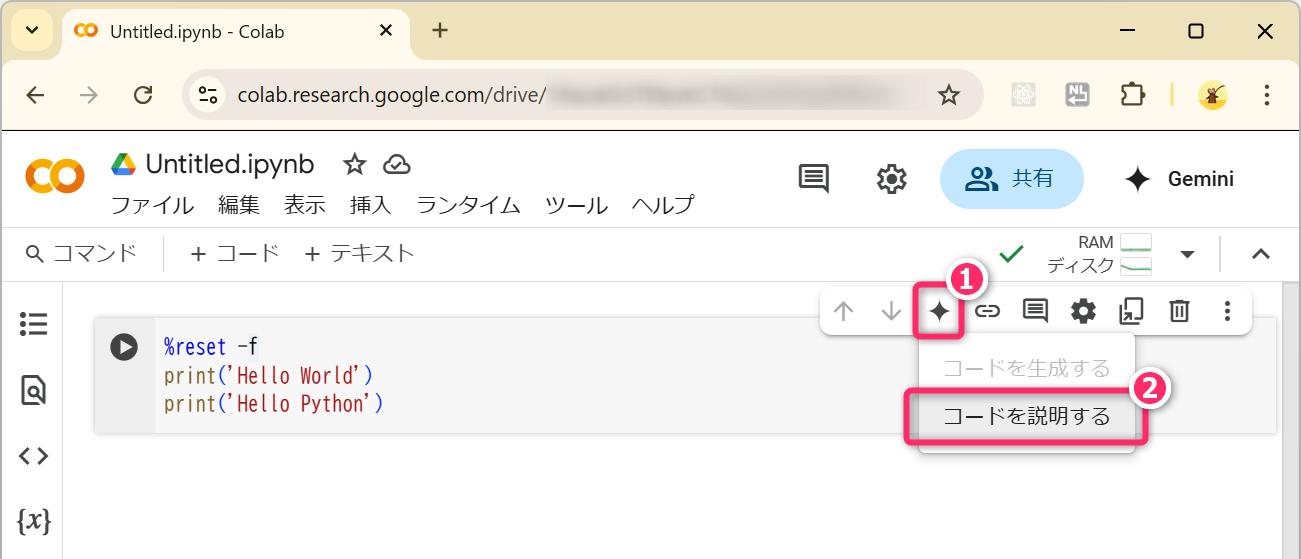
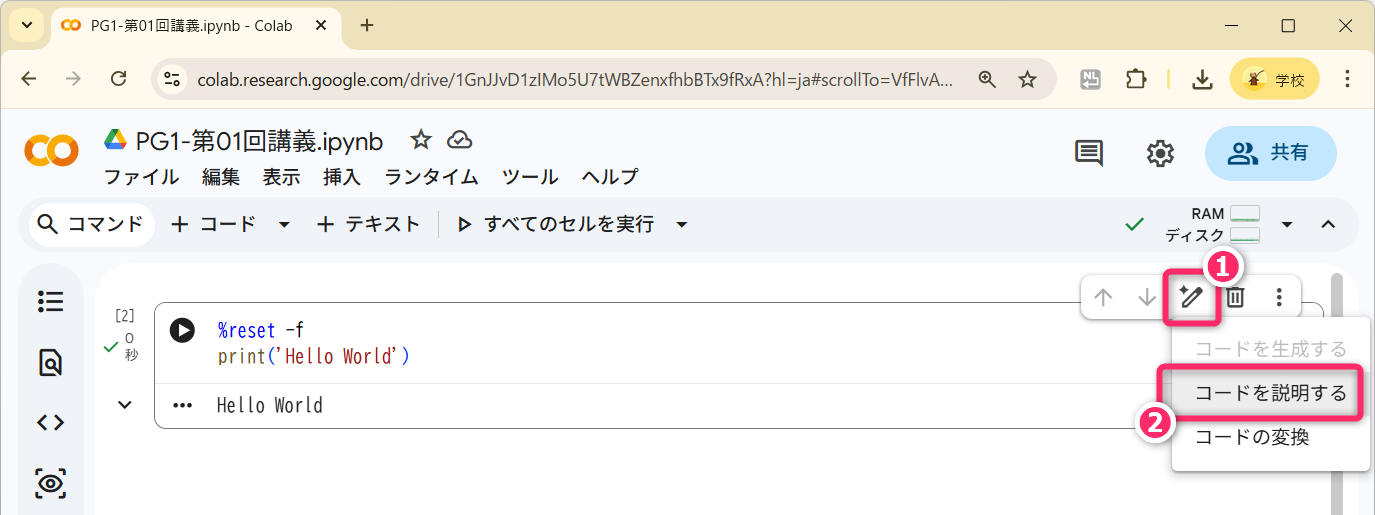
update colab_03.png, lecture01.html and lecture01.md

diff --git a/docs/lecture01.html b/docs/lecture01.html
@@ -92,12 +92,13 @@ class="toc-section-number">5</span> 文字列の扱いと出力</a>
 Geminiの活用法</a></li>
 <li><a href="#文字の出力2" id="toc-文字の出力2"><span class="toc-section-number">5.3</span>
 文字の出力2</a></li>
-<li><a href="#aiアシスト" id="toc-aiアシスト"><span class="toc-section-number">5.4</span>
-AIアシスト</a></li>
 </ul></li>
 <li><a href="#演習" id="toc-演習"><span class="toc-section-number">6</span> 演習</a>
 <ul>
-<li><a href="#参考" id="toc-参考"><span class="toc-section-number">6.1</span> 参考</a></li>
+<li><a href="#参考-まずは自分で演習に取り組んでから読んでください"
+id="toc-参考-まずは自分で演習に取り組んでから読んでください"><span
+class="toc-section-number">6.1</span> 参考
+(まずは、自分で「演習」に取り組んでから読んでください)</a></li>
 </ul></li>
 </ul> 
         <!-- ---------------------------------------- -->
@@ -510,26 +511,58 @@ AIアシスト</a></li>
       <p>文字を画面出力するためには <code>print</code> 関数 (Function)
       を使用します。厳密な表現をすると「<strong>文字列リテラルを標準出力に出力するためには、組込み関数の
       print を使用します</strong>」という表現になります。</p>
-      <div class="sourceCode" id="cb1"><pre
+      <div class="sourceCode" id="cb1" data-caption="文字列を出力するプログラム"><pre
       class="sourceCode numberSource python numberLines"><code class="sourceCode python"><span id="cb1-1"><a href="#cb1-1"></a><span class="op">%</span>reset <span class="op">-</span>f</span>
 <span id="cb1-2"><a href="#cb1-2"></a><span class="bu">print</span>(<span class="st">&#39;Hello World&#39;</span>)</span></code></pre></div>
       <ul>
-      <li>どこにスペースや改行を挿入するとエラーになるのか。実験して、そこからどんな規則があるのか、法則があるのか推察してみましょう。</li>
-      <li>具体的にどのようなエラーが出力されるのかを確認して、また、エラーを翻訳してみましょう。</li>
-      <li><code>%reset -f</code>
-      は何のために存在するのでしょうか。少しでも疑問に思ったことは調べてみましょう
+      <li>コードを貼付けて <code>Ctrl+Enter</code>
+      で実行してください。初回の実行には時間がかかります。</li>
+      <li><strong>第02行目</strong> を <code>print(Hello World)</code> のように
+      <u>シングルクォートなし</u> にすると、どのようになるか確認してください。</li>
+      <li><strong>第02行目</strong> を <code>print("Hello World")</code> のように
+      <u>ダブルクォート</u> にすると、どのようになるのか確認してください。</li>
+      <li><strong>第02行目</strong> を <code>print('Hello World)</code> のように
+      <u>シングルクォートの閉じ忘れ</u>にすると、どのようになるか確認してください。</li>
+      <li><strong>第02行目</strong> を <code>print (  'Hello World' )</code> のように
+      <u>スペースを含める</u> と、どのようになるか確認してください。
       <ul>
-      <li>調べることが大事、現時点で解決できなくても…。</li>
-      <li>どんな検索キーワードと共に調べるとよいのか。</li>
+      <li>全角スペースを入力したときの動作についても確認してください。</li>
       </ul></li>
+      <li><code>%reset -f</code>
+      は何のために存在するのでしょうか。少しでも疑問に思ったことは調べてみましょう。</li>
       </ul>
+      <p><strong><i class="fa-solid fa-comment-dots fa-flip-horizontal"></i>プロンプト例</strong></p>
+      <blockquote>
+      <p>GoogleColab を使って Python プログラムの勉強をしています。<code>%reset -f</code>
+      の意味と必要性を教えてください。</p>
+      </blockquote>
+      <blockquote>
+      <p>Python プログラムの勉強をしているのですが、<code>print('Hello World')</code> と
+      <code>print("Hello World")</code> の違いがわかりません。どのように使い分けしますか？</p>
+      </blockquote>
       <h2 data-number="5.2" id="geminiの活用法"><span class="header-section-number">5.2</span>
       Geminiの活用法</h2>
       <ul>
-      <li>チャットタブの位置変更</li>
-      <li>チャットウィンドウからのコード挿入</li>
-      <li>コードセルからの呼び出し</li>
+      <li>コードセルからの呼び出し
+      <ul>
+      <li>対象コードを選択 👉 コードを説明する</li>
+      </ul></li>
       </ul>
+      <figure>
+      <img src="figs/01/colab_03.png" alt="img" />
+      <figcaption aria-hidden="true">img</figcaption>
+      </figure>
+      <ul>
+      <li>Geminiタブの位置変更
+      <ul>
+      <li>三点リーダ 👉 ページレイアウトを変更 👉 2行</li>
+      </ul></li>
+      <li>モードの切り替え</li>
+      </ul>
+      <figure>
+      <img src="figs/01/colab_03_1.png" alt="img" />
+      <figcaption aria-hidden="true">img</figcaption>
+      </figure>
       <h2 data-number="5.3" id="文字の出力2"><span class="header-section-number">5.3</span>
       文字の出力2</h2>
       <ul>
@@ -537,92 +570,99 @@ AIアシスト</a></li>
       <li><code>print</code> 関数</li>
       <li>「シングルクォーテーション」と「ダブルクォーテーション」</li>
       </ul>
-      <div class="sourceCode" id="cb2"><pre
+      <div class="sourceCode" id="cb2" data-caption="複数行の文字列出力"><pre
       class="sourceCode numberSource python numberLines"><code class="sourceCode python"><span id="cb2-1"><a href="#cb2-1"></a><span class="op">%</span>reset <span class="op">-</span>f</span>
 <span id="cb2-2"><a href="#cb2-2"></a><span class="bu">print</span>(<span class="st">&#39;Hello World&#39;</span>)</span>
 <span id="cb2-3"><a href="#cb2-3"></a><span class="bu">print</span>(<span class="st">&#39;Hello Python&#39;</span>)</span></code></pre></div>
-      <div class="sourceCode" id="cb3"><pre
-      class="sourceCode numberSource python numberLines"><code class="sourceCode python"><span id="cb3-1"><a href="#cb3-1"></a><span class="op">%</span>reset <span class="op">-</span>f</span>
-<span id="cb3-2"><a href="#cb3-2"></a><span class="bu">print</span>(<span class="st">&quot;Hello World&quot;</span>)</span></code></pre></div>
-      <div class="sourceCode" id="cb4"><pre
-      class="sourceCode numberSource python numberLines"><code class="sourceCode python"><span id="cb4-1"><a href="#cb4-1"></a><span class="bu">print</span>(<span class="st">&#39;私の名前は○○です。&#39;</span>)</span>
-<span id="cb4-2"><a href="#cb4-2"></a><span class="bu">print</span>(<span class="st">&#39;最寄り駅は○○で年齢は○○歳です。&#39;</span>)</span></code></pre></div>
-      <div class="sourceCode" id="cb5"><pre
+      <div class="sourceCode" id="cb3" data-caption="日本語の出力"><pre
+      class="sourceCode numberSource python numberLines"><code class="sourceCode python"><span id="cb3-1"><a href="#cb3-1"></a><span class="bu">print</span>(<span class="st">&#39;私の名前は○○です。&#39;</span>)</span>
+<span id="cb3-2"><a href="#cb3-2"></a><span class="bu">print</span>(<span class="st">&#39;最寄り駅は○○で年齢は○○歳です。&#39;</span>)</span></code></pre></div>
+      <div class="sourceCode" id="cb4" data-caption="改行文字\nの利用"><pre
+      class="sourceCode numberSource python numberLines"><code class="sourceCode python"><span id="cb4-1"><a href="#cb4-1"></a><span class="op">%</span>reset <span class="op">-</span>f</span>
+<span id="cb4-2"><a href="#cb4-2"></a><span class="bu">print</span>(<span class="st">&#39;Hello</span><span class="ch">\n</span><span class="st">World&#39;</span>)</span></code></pre></div>
+      <div class="sourceCode" id="cb5" data-caption="確実な絵文字の出力"><pre
       class="sourceCode numberSource python numberLines"><code class="sourceCode python"><span id="cb5-1"><a href="#cb5-1"></a><span class="op">%</span>reset <span class="op">-</span>f</span>
 <span id="cb5-2"><a href="#cb5-2"></a><span class="bu">print</span>(<span class="st">&#39;</span><span class="ch">\U0001F923</span><span class="st">&#39;</span>)</span></code></pre></div>
-      <h2 data-number="5.4" id="aiアシスト"><span class="header-section-number">5.4</span>
-      AIアシスト</h2>
-      <figure>
-      <img src="figs/01/colab_03.png" alt="img" />
-      <figcaption aria-hidden="true">img</figcaption>
-      </figure>
-      <figure>
-      <img src="figs/01/colab_04.png" alt="img" />
-      <figcaption aria-hidden="true">img</figcaption>
-      </figure>
       <h1 data-number="6" id="演習"><span class="header-section-number">6</span> 演習</h1>
-      <p>次のような文字列を出力するPythonプログラムを GoogleColab. 環境 (Jupyter環境)
-      で作成して、その動作について検証してください。ただし、異なるアプローチによるプログラムを2つ以上作成してください。</p>
+      <p>次のような文字列を出力する
+      Pythonプログラムを作成し、実行結果を確認してください。ただし、実装のアプローチが異なるプログラム
+      (記述の仕方が異なるプログラム) がを2つ以上作成してください。</p>
       <pre><code>Pythonの世界へようこそ！
 Hello, World!
 これがあなたの最初のプログラム出力です。</code></pre>
-      <h2 data-number="6.1" id="参考"><span class="header-section-number">6.1</span> 参考</h2>
+      <ul>
+      <li><p>この演習で伝えたいことは、<strong>プログラミングには「正解」というものがひとつだけとは限らない</strong>
+      ということです。創造性を発揮し、異なる角度から問題にアプローチする気持ちを持ってください。ある問題に対して多様な解決策が存在し、それぞれが独自の価値を持っていることを理解することが、深い学びにつながります。</p></li>
+      <li><p>同時に <span class="masked">遊び心</span>
+      を持つことも極めて重要です。標準的でない方法を試すことが、<strong>予想外の発見や理解進化につながります</strong>。プログラミングは「技術」だけでなく「創造的な表現の場」でもあります。</p>
+      <ul>
+      <li>エンジニアだけではなく <strong>クリエイタ</strong> としてのマインドも持ってください。</li>
+      </ul></li>
+      </ul>
+      <h2 data-number="6.1" id="参考-まずは自分で演習に取り組んでから読んでください"><span
+      class="header-section-number">6.1</span> 参考
+      (まずは、自分で「演習」に取り組んでから読んでください)</h2>
+      <p>演習の解答例です。プログラミングの世界には、正解はひとつではなく無限に存在すると考えてください。</p>
       <div class="sourceCode" id="cb7" data-caption="解答例1"><pre
       class="sourceCode numberSource python numberLines"><code class="sourceCode python"><span id="cb7-1"><a href="#cb7-1"></a><span class="op">%</span>reset <span class="op">-</span>f</span>
 <span id="cb7-2"><a href="#cb7-2"></a><span class="bu">print</span>(<span class="st">&#39;Pythonの世界へようこそ！&#39;</span>)</span>
 <span id="cb7-3"><a href="#cb7-3"></a><span class="bu">print</span>(<span class="st">&#39;Hello, World!&#39;</span>)</span>
 <span id="cb7-4"><a href="#cb7-4"></a><span class="bu">print</span>(<span class="st">&#39;これがあなたの最初のプログラム出力です。&#39;</span>)</span></code></pre></div>
-      <div class="sourceCode" id="cb8" data-caption="解答例2"><pre
+      <div class="sourceCode" id="cb8" data-caption="解答例2 (改行文字 \n の利用)"><pre
       class="sourceCode numberSource python numberLines"><code class="sourceCode python"><span id="cb8-1"><a href="#cb8-1"></a><span class="op">%</span>reset <span class="op">-</span>f</span>
-<span id="cb8-2"><a href="#cb8-2"></a><span class="bu">print</span>(<span class="st">&#39;&#39;&#39;Pythonの世界へようこそ！</span></span>
-<span id="cb8-3"><a href="#cb8-3"></a><span class="st">Hello, World!</span></span>
-<span id="cb8-4"><a href="#cb8-4"></a><span class="st">これがあなたの最初のプログラム出力です。&#39;&#39;&#39;</span>)</span></code></pre></div>
-      <div class="sourceCode" id="cb9" data-caption="解答例3"><pre
+<span id="cb8-2"><a href="#cb8-2"></a><span class="bu">print</span>(<span class="st">&#39;Pythonの世界へようこそ！</span><span class="ch">\n</span><span class="st">Hello, World!</span><span class="ch">\n</span><span class="st">これがあなたの最初のプログラム出力です。&#39;</span>)</span></code></pre></div>
+      <div class="sourceCode" id="cb9" data-caption="解答例3 (三連引用符の利用)"><pre
       class="sourceCode numberSource python numberLines"><code class="sourceCode python"><span id="cb9-1"><a href="#cb9-1"></a><span class="op">%</span>reset <span class="op">-</span>f</span>
-<span id="cb9-2"><a href="#cb9-2"></a><span class="bu">print</span>(<span class="st">&#39;Pythonの世界へようこそ！&#39;</span>,<span class="st">&#39;Hello, World!&#39;</span>,<span class="st">&#39;これがあなたの最初のプログラム出力です。&#39;</span>,sep<span class="op">=</span><span class="st">&#39;</span><span class="ch">\n</span><span class="st">&#39;</span>)</span></code></pre></div>
-      <div class="sourceCode" id="cb10" data-caption="解答例4"><pre
+<span id="cb9-2"><a href="#cb9-2"></a><span class="bu">print</span>(<span class="st">&#39;&#39;&#39;Pythonの世界へようこそ！</span></span>
+<span id="cb9-3"><a href="#cb9-3"></a><span class="st">Hello, World!</span></span>
+<span id="cb9-4"><a href="#cb9-4"></a><span class="st">これがあなたの最初のプログラム出力です。&#39;&#39;&#39;</span>)</span></code></pre></div>
+      <div class="sourceCode" id="cb10" data-caption="解答例4 (sep引数の利用)"><pre
       class="sourceCode numberSource python numberLines"><code class="sourceCode python"><span id="cb10-1"><a href="#cb10-1"></a><span class="op">%</span>reset <span class="op">-</span>f</span>
-<span id="cb10-2"><a href="#cb10-2"></a><span class="bu">print</span>(<span class="st">&#39;Pythonの世界へようこそ！</span><span class="ch">\n</span><span class="st">Hello, World!</span><span class="ch">\n</span><span class="st">これがあなたの最初のプログラム出力です。&#39;</span>)</span></code></pre></div>
+<span id="cb10-2"><a href="#cb10-2"></a><span class="bu">print</span>(<span class="st">&#39;Pythonの世界へようこそ！&#39;</span>,<span class="st">&#39;Hello, World!&#39;</span>,<span class="st">&#39;これがあなたの最初のプログラム出力です。&#39;</span>,sep<span class="op">=</span><span class="st">&#39;</span><span class="ch">\n</span><span class="st">&#39;</span>)</span></code></pre></div>
       <div class="sourceCode" id="cb11" data-caption="解答例5"><pre
       class="sourceCode numberSource python numberLines"><code class="sourceCode python"><span id="cb11-1"><a href="#cb11-1"></a><span class="op">%</span>reset <span class="op">-</span>f</span>
 <span id="cb11-2"><a href="#cb11-2"></a><span class="im">import</span> time</span>
 <span id="cb11-3"><a href="#cb11-3"></a>msg <span class="op">=</span> <span class="st">&#39;Pythonの世界へようこそ！</span><span class="ch">\n</span><span class="st">Hello, World!</span><span class="ch">\n</span><span class="st">これがあなたの最初のプログラム出力です。&#39;</span></span>
 <span id="cb11-4"><a href="#cb11-4"></a><span class="cf">for</span> char <span class="kw">in</span> msg:</span>
-<span id="cb11-5"><a href="#cb11-5"></a>  <span class="bu">print</span>(char, end<span class="op">=</span><span class="st">&#39;&#39;</span>)</span>
+<span id="cb11-5"><a href="#cb11-5"></a>  <span class="bu">print</span>(char, end<span class="op">=</span><span class="st">&#39;&#39;</span>, flush<span class="op">=</span><span class="va">True</span>)</span>
 <span id="cb11-6"><a href="#cb11-6"></a>  time.sleep(<span class="fl">0.1</span>)</span>
 <span id="cb11-7"><a href="#cb11-7"></a><span class="bu">print</span>()</span></code></pre></div>
-      <div class="sourceCode" id="cb12" data-caption="解答例6"><pre
+      <div class="sourceCode" id="cb12" data-caption="解答例6 (ANSIエスケープシーケンスの利用)"><pre
       class="sourceCode numberSource python numberLines"><code class="sourceCode python"><span id="cb12-1"><a href="#cb12-1"></a><span class="op">%</span>reset <span class="op">-</span>f</span>
-<span id="cb12-2"><a href="#cb12-2"></a><span class="im">from</span> IPython.display <span class="im">import</span> display, HTML</span>
-<span id="cb12-3"><a href="#cb12-3"></a></span>
-<span id="cb12-4"><a href="#cb12-4"></a>html <span class="op">=</span> <span class="st">&#39;&#39;&#39;</span></span>
-<span id="cb12-5"><a href="#cb12-5"></a><span class="st">&lt;style&gt;</span></span>
-<span id="cb12-6"><a href="#cb12-6"></a><span class="st">@keyframes fadeIn {</span></span>
-<span id="cb12-7"><a href="#cb12-7"></a><span class="st">  from { opacity: 0; }</span></span>
-<span id="cb12-8"><a href="#cb12-8"></a><span class="st">  to { opacity: 1; }</span></span>
-<span id="cb12-9"><a href="#cb12-9"></a><span class="st">}</span></span>
-<span id="cb12-10"><a href="#cb12-10"></a><span class="st">.fade-in {</span></span>
-<span id="cb12-11"><a href="#cb12-11"></a><span class="st">  animation: fadeIn 4s ease-in-out;</span></span>
-<span id="cb12-12"><a href="#cb12-12"></a><span class="st">}</span></span>
-<span id="cb12-13"><a href="#cb12-13"></a><span class="st">&lt;/style&gt;</span></span>
-<span id="cb12-14"><a href="#cb12-14"></a><span class="st">&lt;div id=&quot;animated-text&quot; style=&quot;background-color: black; color: white; padding: 10px; text-align: center; &quot;&gt;</span></span>
-<span id="cb12-15"><a href="#cb12-15"></a><span class="st">  &lt;p class=&quot;fade-in&quot;&gt;Pythonの世界へようこそ！&lt;br&gt;Hello, World!&lt;br&gt;これがあなたの最初のプログラム出力です。&lt;/p&gt;</span></span>
-<span id="cb12-16"><a href="#cb12-16"></a><span class="st">&lt;/div&gt;</span></span>
-<span id="cb12-17"><a href="#cb12-17"></a><span class="st">&#39;&#39;&#39;</span></span>
-<span id="cb12-18"><a href="#cb12-18"></a></span>
-<span id="cb12-19"><a href="#cb12-19"></a>display(HTML(html))</span></code></pre></div>
-      <p>この演習で伝えたいことは、<strong>プログラミングには「正解」というものがひとつだけとは限らない</strong>
-      ということです。創造性を発揮し、異なる角度から問題にアプローチする気持ちを持ってください。ある問題に対して多様な解決策が存在し、それぞれが独自の価値を持っていることを理解することが、深い学びにつながります。</p>
-      <p>同時に <span class="masked">遊び心</span>
-      を持つことも極めて重要です。標準的でない方法を試すことが、<strong>予想外の発見や理解進化につながります</strong>。プログラミングは技術だけでなく、創造的な表現の場でもあります
-      (エンジニアにくわえて <span class="masked">クリエイタ</span>
-      としてのマインドも持ってください)。</p>
-      <p>また「プログラムコード」と「その実行結果」から、<strong>その背後にあるメカニズムや規則性を理解し、自分なりのメンタルモデルを構築することが大切です</strong>。「<strong>メンタルモデル</strong>」とは、物事の仕組みを自分なりに解釈・理解して、頭のなかに構築する内的なモデルのことを指します。。たとえば、スマートフォンのアプリがどのように動くかを理解するために、<span
-      class="masked">ユーザーの操作とアプリの反応の関係を頭のなかでイメージする</span>
-      のがメンタルモデルです。ユーザーが特定のボタンをタップしたとき、なぜ画面が切り替わるのか、どのようにデータが処理されるのかを想像することです。プログラミングでも、書いたコードがどのように動作するかを理解し、予測するためにこのモデルを使います。</p>
-      <p>さらに、学んだことを定着させるためには <span
-      class="masked">実際に自分でコードを書いてみること (打ち込んでみること) </span>
-      が重要です。新しい内容を学んだら、それに関するプログラムをコピペではなく自分で打ち込んで、それを実行して、その結果を確認・検証する習慣を身につけてください。習って「理解してた」と思っても、実際にはそれが錯覚であることが常です。</p>
+<span id="cb12-2"><a href="#cb12-2"></a>RED <span class="op">=</span> <span class="st">&#39;</span><span class="ch">\033</span><span class="st">[31m&#39;</span></span>
+<span id="cb12-3"><a href="#cb12-3"></a>GREEN <span class="op">=</span> <span class="st">&#39;</span><span class="ch">\033</span><span class="st">[32m&#39;</span></span>
+<span id="cb12-4"><a href="#cb12-4"></a>RESET <span class="op">=</span> <span class="st">&#39;</span><span class="ch">\033</span><span class="st">[0m&#39;</span></span>
+<span id="cb12-5"><a href="#cb12-5"></a><span class="bu">print</span>(RED <span class="op">+</span> <span class="st">&#39;Pythonの世界へようこそ！&#39;</span> <span class="op">+</span> RESET)</span>
+<span id="cb12-6"><a href="#cb12-6"></a><span class="bu">print</span>(GREEN <span class="op">+</span> <span class="st">&#39;Hello, World!&#39;</span> <span class="op">+</span> RESET)</span>
+<span id="cb12-7"><a href="#cb12-7"></a><span class="bu">print</span>(<span class="st">&#39;これがあなたの最初のプログラム出力です。&#39;</span>)</span></code></pre></div>
+      <div class="sourceCode" id="cb13" data-caption="解答例7"><pre
+      class="sourceCode numberSource python numberLines"><code class="sourceCode python"><span id="cb13-1"><a href="#cb13-1"></a><span class="op">%</span>reset <span class="op">-</span>f</span>
+<span id="cb13-2"><a href="#cb13-2"></a><span class="im">from</span> IPython.display <span class="im">import</span> display, HTML</span>
+<span id="cb13-3"><a href="#cb13-3"></a></span>
+<span id="cb13-4"><a href="#cb13-4"></a>html <span class="op">=</span> <span class="st">&#39;&#39;&#39;</span></span>
+<span id="cb13-5"><a href="#cb13-5"></a><span class="st">&lt;style&gt;</span></span>
+<span id="cb13-6"><a href="#cb13-6"></a><span class="st">@keyframes fadeIn {</span></span>
+<span id="cb13-7"><a href="#cb13-7"></a><span class="st">  from { opacity: 0; }</span></span>
+<span id="cb13-8"><a href="#cb13-8"></a><span class="st">  to { opacity: 1; }</span></span>
+<span id="cb13-9"><a href="#cb13-9"></a><span class="st">}</span></span>
+<span id="cb13-10"><a href="#cb13-10"></a><span class="st">.fade-in {</span></span>
+<span id="cb13-11"><a href="#cb13-11"></a><span class="st">  animation: fadeIn 4s ease-in-out;</span></span>
+<span id="cb13-12"><a href="#cb13-12"></a><span class="st">}</span></span>
+<span id="cb13-13"><a href="#cb13-13"></a><span class="st">&lt;/style&gt;</span></span>
+<span id="cb13-14"><a href="#cb13-14"></a><span class="st">&lt;div id=&quot;animated-text&quot; style=&quot;background-color: black; color: white; padding: 10px; text-align: center; &quot;&gt;</span></span>
+<span id="cb13-15"><a href="#cb13-15"></a><span class="st">  &lt;p class=&quot;fade-in&quot;&gt;Pythonの世界へようこそ！&lt;br&gt;Hello, World!&lt;br&gt;これがあなたの最初のプログラム出力です。&lt;/p&gt;</span></span>
+<span id="cb13-16"><a href="#cb13-16"></a><span class="st">&lt;/div&gt;</span></span>
+<span id="cb13-17"><a href="#cb13-17"></a><span class="st">&#39;&#39;&#39;</span></span>
+<span id="cb13-18"><a href="#cb13-18"></a></span>
+<span id="cb13-19"><a href="#cb13-19"></a>display(HTML(html))</span></code></pre></div>
+      <p>プログラミングでは<u>「プログラムコード」と「その実行結果」を対応づけながら</u>、その背後にある仕組みや規則性を理解し、自分なりのメンタルモデルを構築することが重要です。</p>
+      <ul>
+      <li><strong>メンタルモデル</strong>
+      とは、物事の仕組みを自分なりに解釈し、頭の中に組み立てたイメージのことです。たとえば、スマートフォンのアプリを使うとき、<span
+      class="masked">ユーザーの操作に対して、どのような処理が行われ、どのような結果が返ってくるかを頭の中で思い描く</span>ことがメンタルモデルにあたります。ボタンをタップしたときに「<strong>このあとどんな処理がされて、どんな画面に切り替わるかな</strong>」と自然に予想できる状態です。プログラミングでも同様に、書いたコードがどのように動作するかを事前に思い描き、その予想と実行結果を照らし合わせながら理解を深めていきます。</li>
+      </ul>
+      <p>さらに、学んだ内容を定着させるためには、<span
+      class="masked">実際に自分でコードを書いてみること（打ち込んでみること）</span>が重要です。新しい内容を学んだら、それに関するプログラムをコピペで済ませるのではなく、自分の手で入力し、実行結果を確認してください。頭の中で想像した動きと実際の結果が一致しているかを確かめることで、自分の理解のズレに気づくことができます。「理解できた」と感じていても、それが思い込みにすぎない場合は少なくありません。</p>
       <!-- ---------------------------------------- -->
     </main>
 
